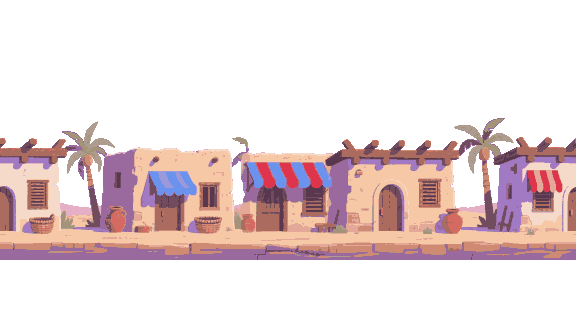
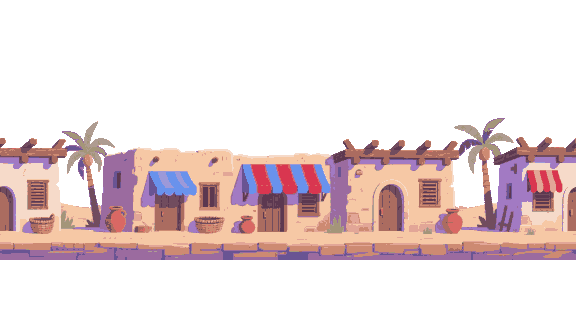
The Village's house with the striped awning repainted (Sapega «у домика з кольоровим навісом тіні загублені»): the old seam left a see-through strip and a ghost palm beside it; a soft local repaint at denoise 0.6 on the approved image keeps the awning, door and window, joins it wall to wall with its
Claude-Session: https://claude.ai/code/session_01A2gnDWaoeJGbj3GPH4dnCF

diff --git a/Scripts/Tools/comfy_backdrop.py b/Scripts/Tools/comfy_backdrop.py
@@ -358,6 +358,23 @@ def reseam(layer):
     Image.fromarray(img.astype(np.uint8)).save(path)
 
 
+def repaint(layer, x0, x1, denoise):
+    """Перемальовує смугу x0..x1 (пікселі шару) схваленої картинки з кешу не з нуля: будова лишається, а
+    напівпрозорі привиди й рвані тіні стають суцільними (будиночок із тентом у селі, D238)."""
+    path = cache_path(layer)
+    img = np.asarray(Image.open(path).convert("RGB"), dtype=np.float32)
+    height = -(-layer["rows"] * SCALE // 16) * 16
+    padded = np.concatenate([img, np.repeat(img[-1:], height - len(img), axis=0)])
+    x = np.arange(GW)
+    edge = 24
+    ramp = np.clip(np.maximum(x0 * SCALE - x, x - x1 * SCALE) / edge, 0, 1)  # 0 — смуга, 1 — поза нею
+    alpha = np.repeat((ramp * 255).astype(np.uint8)[None, :, None], height, axis=0)  # прозоре = маска LoadImage
+    name = upload(np.concatenate([padded.astype(np.uint8), alpha], 2), "repaint.png")
+    fixed = run(graph(f"{layer['prompt']}, {STYLE}", layer["seed"] + 2, height, name, denoise))
+    w = (1 - ramp)[None, :, None]
+    Image.fromarray((fixed * w + padded * (1 - w))[: len(img)].astype(np.uint8)).save(path)
+
+
 def generate(layer):
     """Картинка шару в px генерації, безшовна по горизонталі для seam model / blend."""
     path = cache_path(layer)
@@ -431,11 +448,15 @@ def quantize(rgb, opaque, colors, method="mediancut"):
 
 
 if __name__ == "__main__":
-    names = [a for a in sys.argv[1:] if not a.startswith("--")]
+    names = [a for i, a in enumerate(sys.argv[1:], 1) if not a.startswith("--") and sys.argv[i - 1] not in ("--repaint", "--denoise")]
     for name in names or LAYERS:
         layer = LAYERS[name]
         if "--reseam" in sys.argv:
             reseam(layer)
+        if "--repaint" in sys.argv:  # --repaint X0-X1 [--denoise D]: смуга в пікселях шару
+            x0, x1 = map(int, sys.argv[sys.argv.index("--repaint") + 1].split("-"))
+            d = float(sys.argv[sys.argv.index("--denoise") + 1]) if "--denoise" in sys.argv else 0.6
+            repaint(layer, x0, x1, d)
         strip, strip_opaque = shrink(generate(layer), layer["key"])
         if layer["seam"] == "drop":
             # предмети в повітрі — під верх шару: модель ставить їх посередині, де їх ховають скелі
